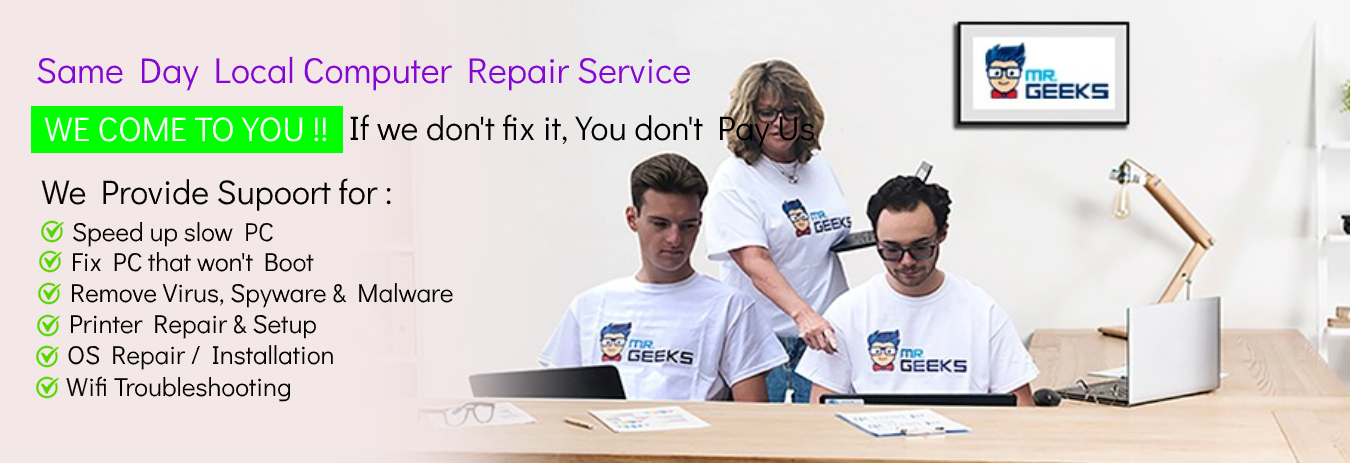
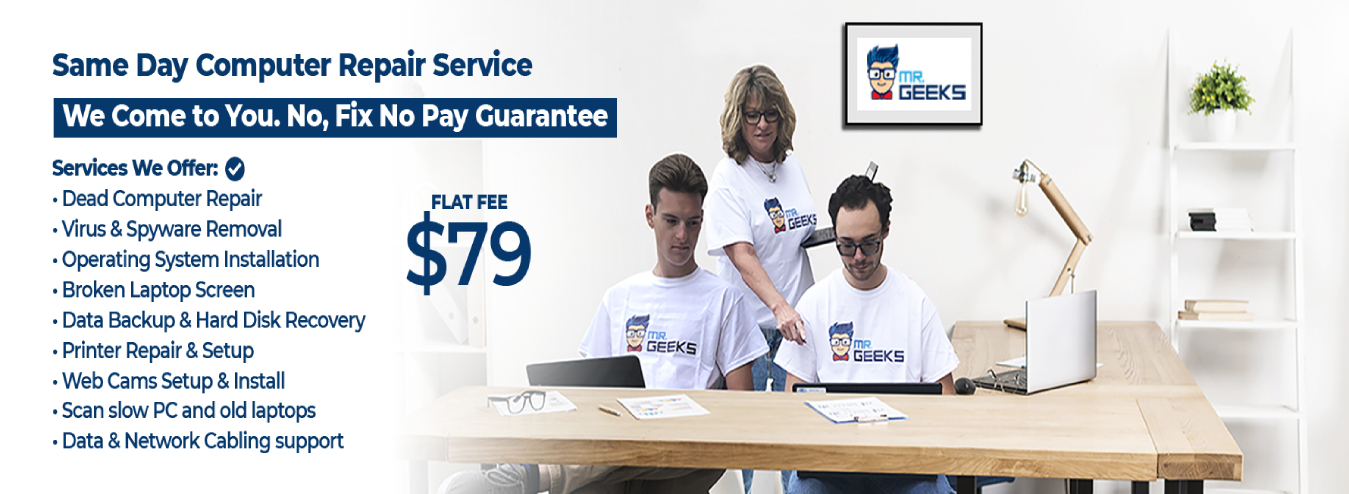
renovated

diff --git a/assets/css/style.css b/assets/css/style.css
@@ -33,7 +33,7 @@ p {
 .banner{
 	background:url(../images/banner.jpg) no-repeat;
 	background-size:contain;
-	height:515px;
+	height:494px;
 	margin-top:5px;
 	background-position:;
 }
@@ -51,7 +51,7 @@ p {
 	line-height:28px;
 }
 .header-bar {
-	background: #2193dc;
+	background: #87c9f3;
 	padding:30px 0 20px 0;
 }
 .call-con h3 {
@@ -103,13 +103,13 @@ p {
 	font-size:12px;
 }
 .feature-con {
-	background: #f3f3f3;
+	background: #bec09f;
 	text-align: center;
 	padding-top: 40px;
 	padding-bottom: 40px;
 }
 .page-heading h2 {
-	color: #4eaeeb;
+	color: #158cd8;
 	font-size: 32px;
 	margin-bottom: 25px;
 }
@@ -207,7 +207,7 @@ p {
 	padding-left: 20px;
 }
 footer {
-	background: #02588f;
+	background: #87c9f3;
 	text-align: center;
 	color: #fff;
 	padding-top: 20px;
@@ -219,11 +219,11 @@ footer h3 {
 }
 footer p {
 	font-size: 14px;
-	color: #a4b8cc;
+	color: #333;
 	margin-bottom: 0;
 }
 .free-grid-con {
-	background: #037bd4;
+	background: #7dc1f3;
 	padding: 20px 0;
 }
 .free-grid-con img{
